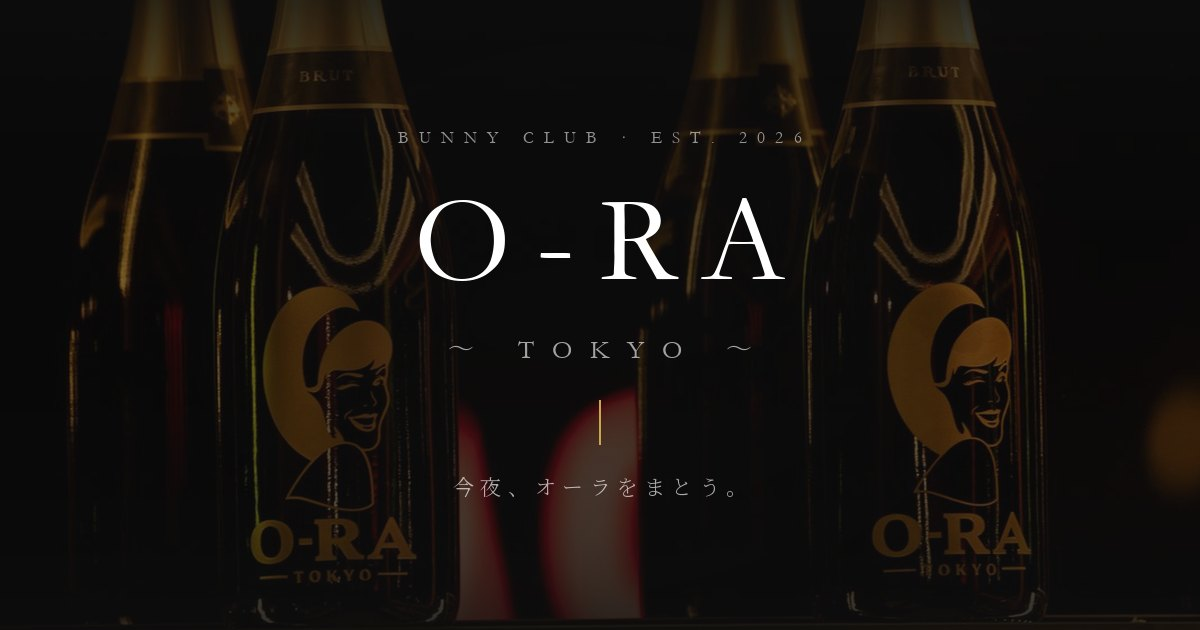
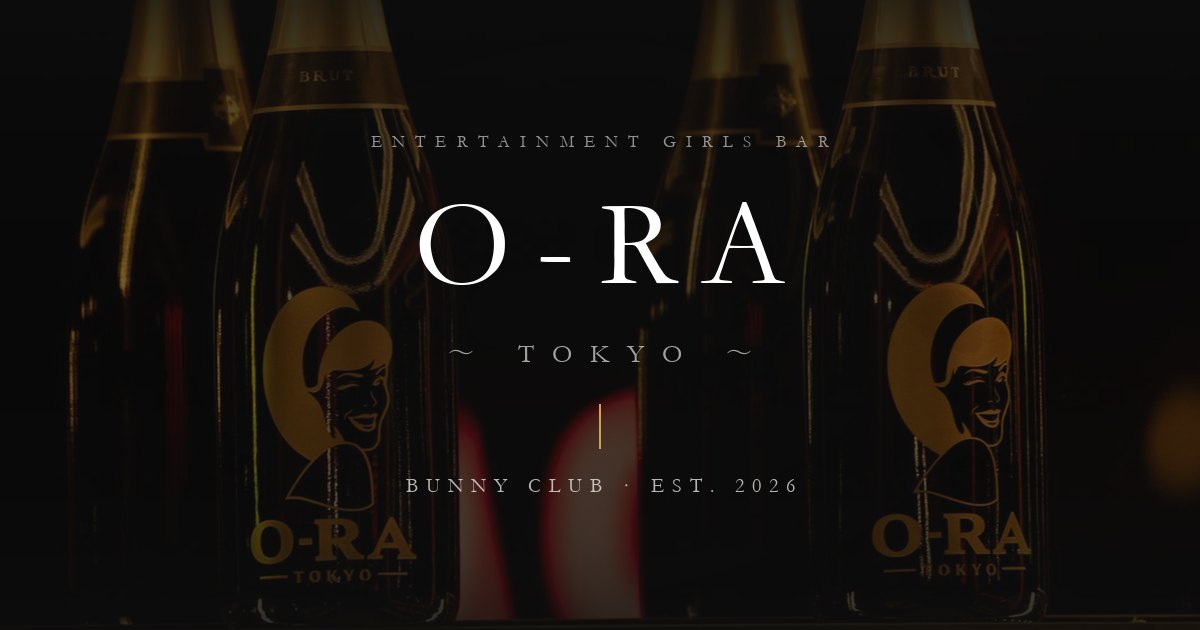
feat: ヒーローの一列目を ENTERTAINMENT GIRLS BAR に戻し、店名の下を BUNNY CLUB · EST. 2026 に
DK「一列目元に戻して / 店名の下のオーラを今の一列目に」。
「今夜、オーラをまとう。」の場所に BUNNY CLUB · EST. 2026 を置く。
OG 画像も同じ並びにして OG_IMAGE_VERSION = 5。ページ名（title）はそのまま。

diff --git a/app/page.tsx b/app/page.tsx
@@ -29,7 +29,7 @@ export default function Home() {
           animation:"heroFade 2s cubic-bezier(0.25,0.46,0.45,0.94) both",
         }}>
           <p style={{ fontFamily:"var(--font-display)", fontSize:11, letterSpacing:"0.6em", color:"rgba(255,255,255,0.55)", marginBottom:28 }}>
-            BUNNY CLUB · EST. 2026
+            ENTERTAINMENT GIRLS BAR
           </p>
           <h1 style={{
             fontFamily:"var(--font-display)", fontWeight:300,
@@ -40,8 +40,9 @@ export default function Home() {
             ～ TOKYO ～
           </p>
           <div style={{ width:1, height:48, background:"var(--color-gold)", marginBottom:28 }} />
-          <p style={{ fontFamily:"var(--font-serif)", fontSize:"clamp(12px,1.5vw,15px)", letterSpacing:"0.3em", color:"rgba(255,255,255,0.6)" }}>
-            今夜、オーラをまとう。
+          {/* 2026-10-23 DK: 一列目は ENTERTAINMENT GIRLS BAR に戻し、ここ（前は「今夜、オーラをまとう。」）に BUNNY CLUB */}
+          <p style={{ fontFamily:"var(--font-display)", fontSize:"clamp(12px,1.6vw,16px)", letterSpacing:"0.4em", color:"rgba(255,255,255,0.7)" }}>
+            BUNNY CLUB · EST. 2026
           </p>
         </div>
         <div style={{

diff --git a/lib/site.ts b/lib/site.ts
@@ -41,12 +41,12 @@ export const POKEPARA = {
  * LINE や Facebook は URL 単位でプレビューを長くキャッシュするので、
  * 画像を差し替えたら OG_IMAGE_VERSION を上げて URL を変える。
  */
-const OG_IMAGE_VERSION = 4;   // 4: 2026-10-23 一列目を BUNNY CLUB · EST. 2026 に
+const OG_IMAGE_VERSION = 5;   // 5: 2026-10-23 一列目を ENTERTAINMENT GIRLS BAR に戻し、下の一言を BUNNY CLUB · EST. 2026 に
 export const OG_IMAGE = {
   url: `/og.jpg?v=${OG_IMAGE_VERSION}`,
   width: 1200,
   height: 630,
-  alt: `${SITE_NAME} 今夜、オーラをまとう。`,
+  alt: `${SITE_NAME} ENTERTAINMENT GIRLS BAR / BUNNY CLUB · EST. 2026`,
 };
 
 /**

diff --git a/scripts/make-og-image.py b/scripts/make-og-image.py
@@ -1,7 +1,7 @@
 """OGP 画像（public/og.jpg, 1200x630）を生成する。
 
 LINE や SNS で URL を送ったときのプレビュー画像。トップのヒーローと同じ構成
-（BUNNY CLUB · EST. 2026 / O-RA / ～ TOKYO ～ / ゴールドの線 / キャッチ）で描く。
+（ENTERTAINMENT GIRLS BAR / O-RA / ～ TOKYO ～ / ゴールドの線 / BUNNY CLUB · EST. 2026）で描く。
 
 背景写真を差し替えたら、このスクリプトを実行し直して画像を作り直す:
 
@@ -112,10 +112,10 @@ def main():
     img = background()
     layer = Image.new("RGBA", (W, H), (0, 0, 0, 0))
 
-    eyebrow = Line("BUNNY CLUB · EST. 2026", 17, 0.6, 0.55)
+    eyebrow = Line("ENTERTAINMENT GIRLS BAR", 17, 0.6, 0.55)
     name = Line("O-RA", 124, 0.2, 1.0)
     city = Line("～ TOKYO ～", 26, 0.7, 0.62)
-    catch = Line("今夜、オーラをまとう。", 21, 0.3, 0.66, latin=False)
+    catch = Line("BUNNY CLUB · EST. 2026", 20, 0.4, 0.7)
     rule_h = 44
 
     blocks = [(eyebrow, 24), (name, 16), (city, 34), ("rule", 26), (catch, 0)]
